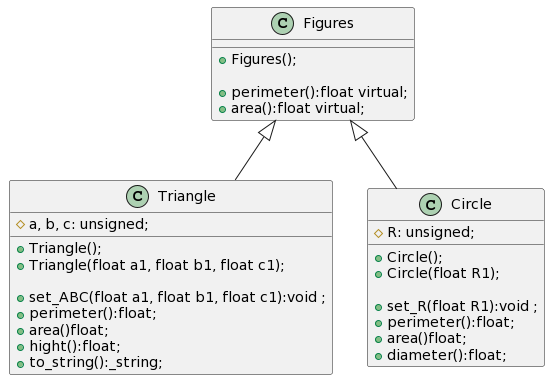
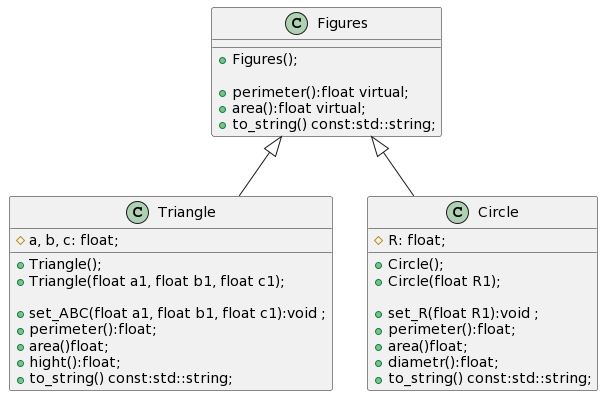
fix UML

diff --git a/figure_relations/UMLplant_Text.md b/figure_relations/UMLplant_Text.md
@@ -6,6 +6,7 @@ class Figures
 
    + perimeter():float virtual;
    + area():float virtual;
+   + to_string() const:std::string;
           
 }
 @enduml
@@ -13,7 +14,7 @@ class Figures
 @startuml
 class Triangle
 {
-   # a, b, c: unsigned;  
+   # a, b, c: float;  
 
    + Triangle();
    + Triangle(float a1, float b1, float c1);                         
@@ -22,7 +23,7 @@ class Triangle
    + perimeter():float;
    + area()float;
    + hight():float;
-   + to_string():_string;
+   + to_string() const:std::string;
           
 }
 @enduml
@@ -30,7 +31,7 @@ class Triangle
 @startuml
 class Circle
 {
-   # R: unsigned;
+   # R: float;
 
    + Circle();
    + Circle(float R1);                         
@@ -38,7 +39,8 @@ class Circle
    + set_R(float R1):void ;
    + perimeter():float;
    + area()float;
-   + diameter():float;
+   + diametr():float;
+   + to_string() const:std::string;
           
 }
 @enduml
